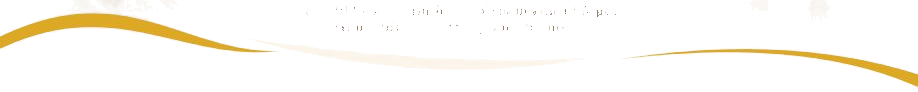
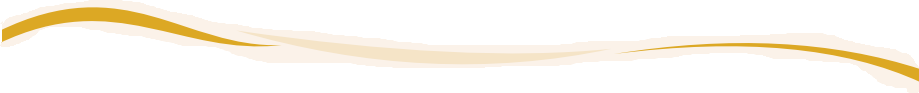
feat(editorial): integrar la linea dorada ondulada oficial en historia, programacion y lugares y experiencias

diff --git a/src/app/components/editorial-shell/editorial-shell.html b/src/app/components/editorial-shell/editorial-shell.html
@@ -9,9 +9,10 @@
       [class.sheet-lugares]="activeSection() === 'lugares'"
       [class.sheet-historia]="activeSection() === 'historia'"
       [class.sheet-programacion]="activeSection() === 'programacion'"
+      [class.sheet-cultura]="activeSection() === 'cultura'"
     >
-      @if (activeSection() === 'lugares' || activeSection() === 'historia' || activeSection() === 'programacion') {
-        <!-- CABECERA PERSONALIZADA CON MARCAS DE AGUA Y LÍNEA ONDULADA (HISTORIA, LUGARES Y PROGRAMACIÓN) -->
+      @if (activeSection() === 'lugares' || activeSection() === 'historia' || activeSection() === 'programacion' || activeSection() === 'cultura') {
+        <!-- CABECERA PERSONALIZADA CON MARCAS DE AGUA Y LÍNEA ONDULADA (HISTORIA, LUGARES, PROGRAMACIÓN Y CULTURA) -->
         <header class="lugares-header-banner">
           <!-- ILUSTRACIONES ARTÍSTICAS DE FONDO -->
           <div class="lugares-banner-watermarks" aria-hidden="true">

diff --git a/src/app/components/editorial-shell/editorial-shell.css b/src/app/components/editorial-shell/editorial-shell.css
@@ -267,7 +267,8 @@
    ========================================================================== */
 .historia-sheet.sheet-lugares,
 .historia-sheet.sheet-historia,
-.historia-sheet.sheet-programacion {
+.historia-sheet.sheet-programacion,
+.historia-sheet.sheet-cultura {
   position: relative;
   overflow: hidden;
   padding-top: 0;
